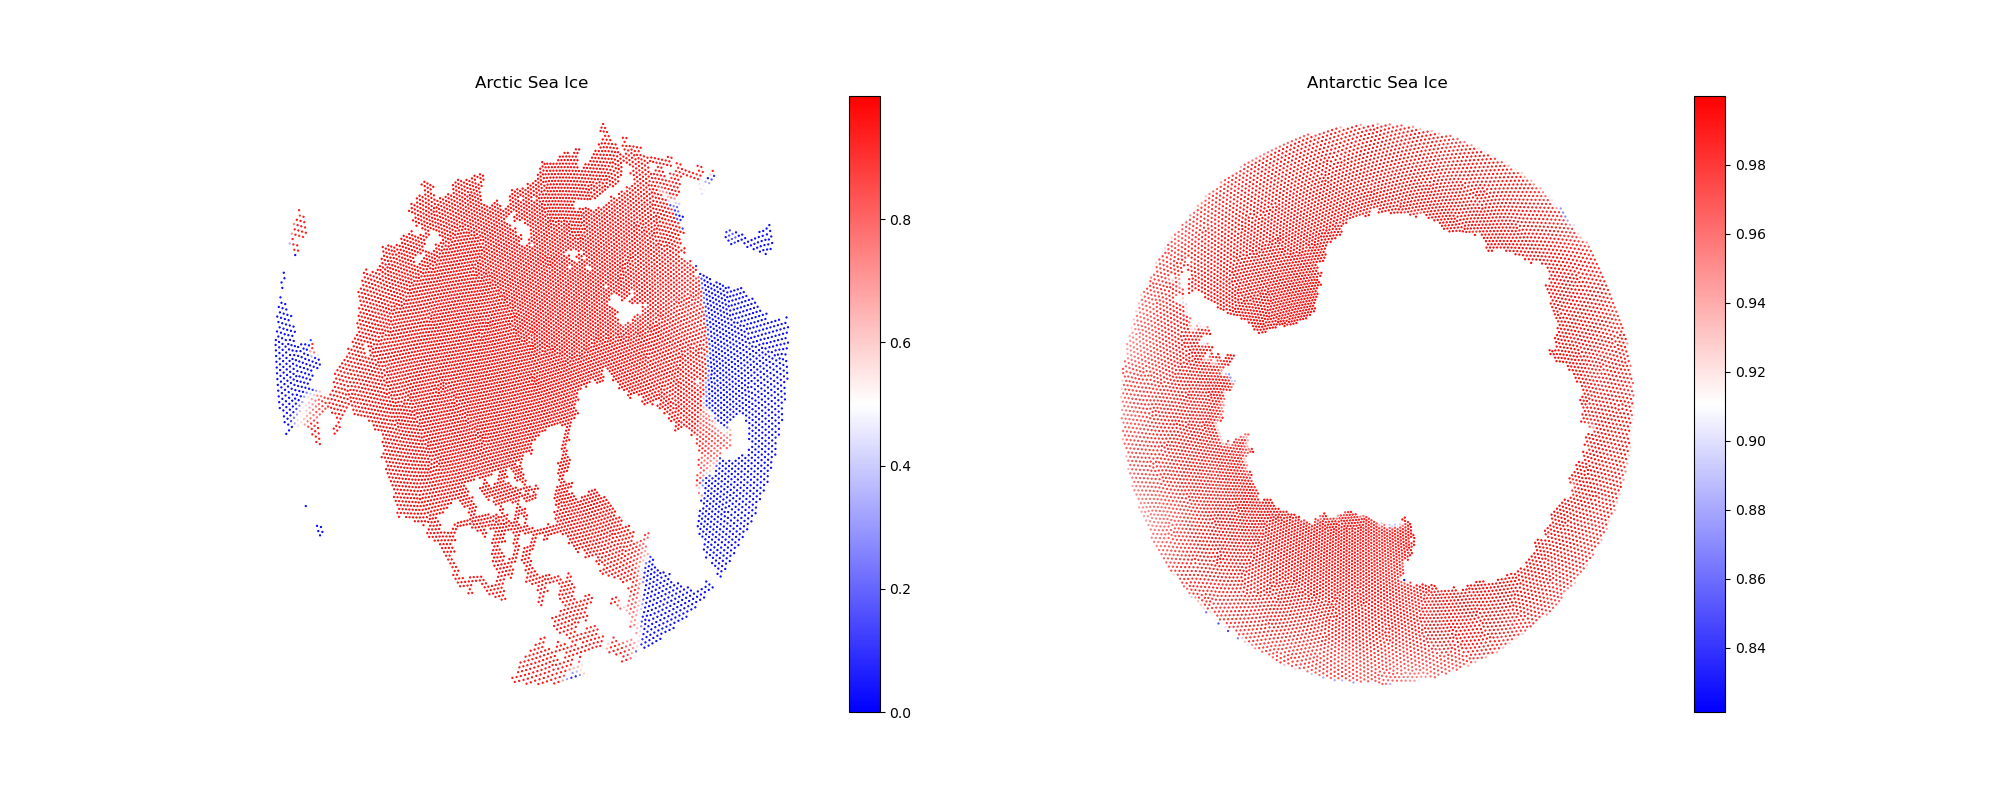
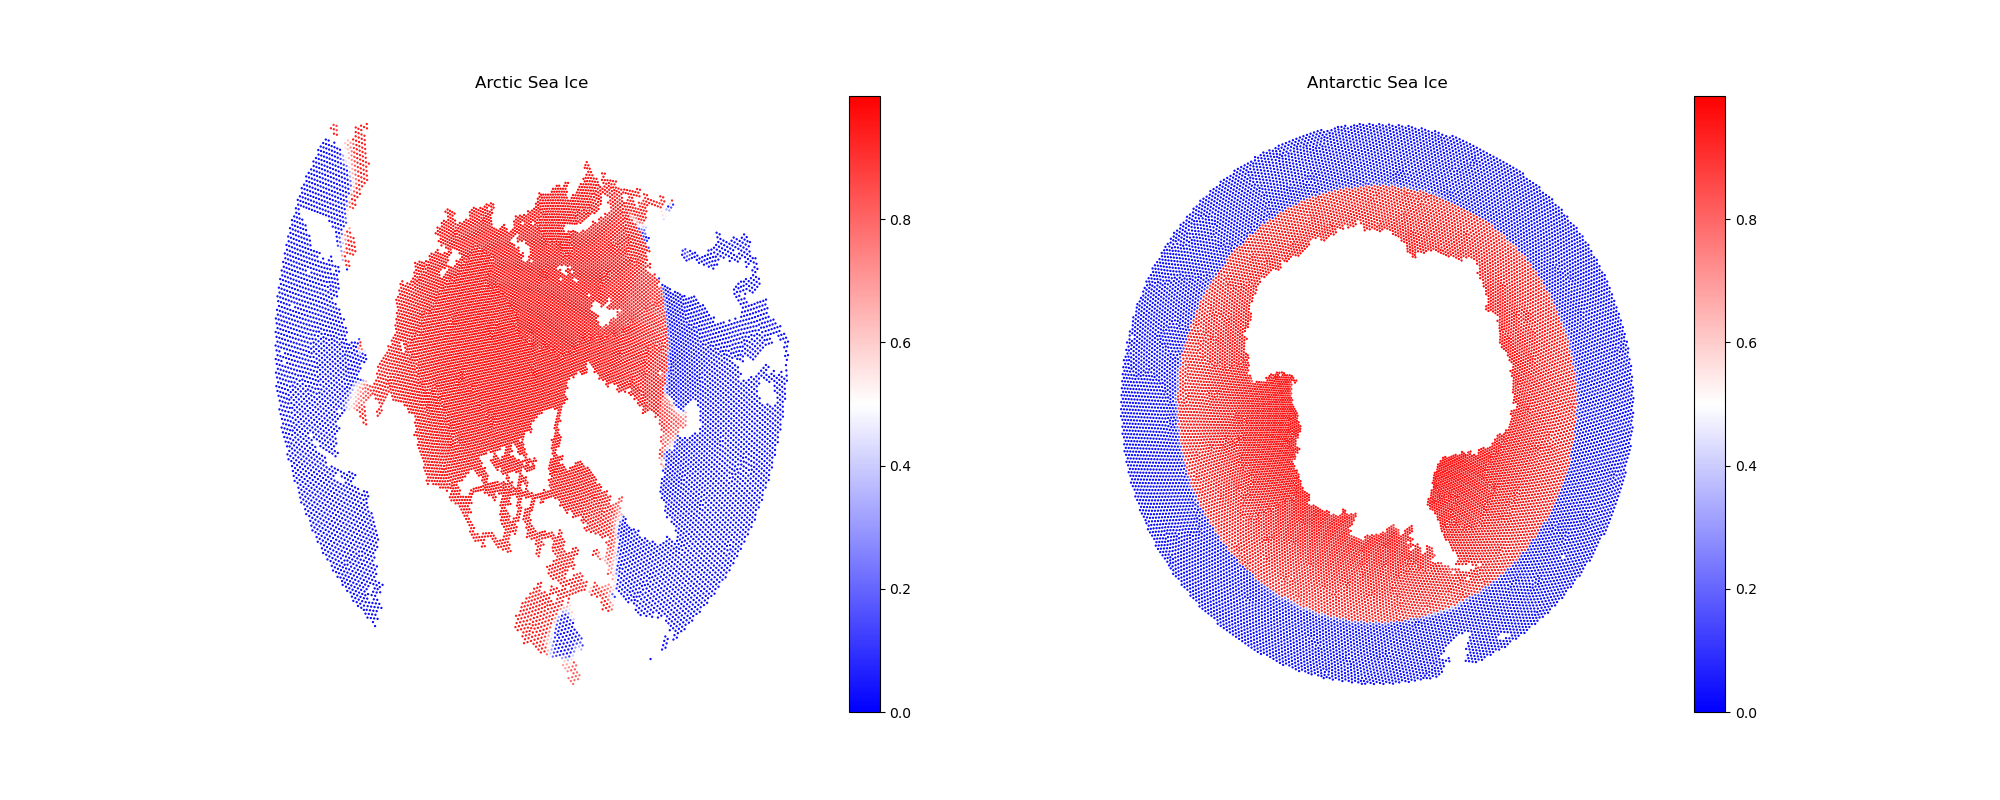
Made functions in the practice doc

diff --git a/practice-plotting/e3sm-data-practice-visualization.py b/practice-plotting/e3sm-data-practice-visualization.py
@@ -15,14 +15,16 @@ import os
 import math
 import numpy as np
 import xarray
-import matplotlib as mpl
+import matplotlib.path as mpath
 import matplotlib.pyplot as plt
 
-import matplotlib as mpl
-import matplotlib.pyplot as plt
 import cartopy.crs as ccrs
-import cartopy.mpl.ticker as cticker
 import cartopy.feature as cfeature
+
+# Constants
+MAXLONGITUDE = 180
+MINLONGITUDE = -180
+NORTHPOLE = 90
 
 # Change these for different runs
 runDir = os.path.dirname(os.path.abspath(__file__))     # Gets the current directory path
@@ -30,54 +32,47 @@ meshFileName = "\data\seaice.EC30to60E2r2.210210.nc"                            
 outputFileName = "\data\Breanna_D_test_1.mpassi.hist.am.timeSeriesStatsDaily.0001-01-01.nc"  # .nc file for the data to plot
 varToPlot = 'timeDaily_avg_iceAreaCell' # The variable that you want to plot
 
+def loadMesh(runDir, meshFileName):
+    """ Load the mesh from an .nc file. The mesh must have the same resolution as the output file. """
+    print('read: ', runDir, meshFileName)
+    mesh = xarray.open_dataset(runDir + meshFileName)
+    nCells = mesh.sizes['nCells']
+    latCell = mesh.variables['latCell'] # in radians
+    lonCell = mesh.variables['lonCell']
+    xCell = mesh.variables['xCell'] # in meters
+    yCell = mesh.variables['yCell']
+    return nCells, latCell, lonCell, xCell, yCell
+
+def loadData(runDir, outputFileName):
+    """ Load the data from an .nc output file. Returns a 1D array of the variable you want to plot. """
+    print('read: ', runDir, outputFileName)
+    output = xarray.open_dataset(runDir + outputFileName)
+    var = output.variables[varToPlot]
+    var1D = var[0,:] # reduce the variable to 1D so we can use these indices
+    return var1D
+
+def mapHemisphere(latCell, lat_limit, hemisphere, title, hemisphereMap):
+    """ Map one hemisphere onto a matplotlib figure. 
+    Ensure that you include the minus sign if mapping southern hemisphere. """
+    if hemisphere == "n":
+        indices = np.where(latCell > math.radians(lat_limit))
+    elif hemisphere == "s":
+        indices = np.where(latCell < math.radians(lat_limit))
+
+    sc = hemisphereMap.scatter(xCell[indices], yCell[indices], c=var1D[indices], cmap='bwr', s=0.4)
+    hemisphereMap.set_title(title)
+    hemisphereMap.axis('off')
+    plt.colorbar(sc, ax=hemisphereMap)
+
 # Create a figure with two subplots
 fig, axs = plt.subplots(1, 2, figsize=(20, 8))
 leftMap = axs[0]
 rightMap = axs[1]
+lat_limit = 50
 
-print('read: ', runDir, meshFileName)
-mesh = xarray.open_dataset(runDir + meshFileName)
-nCells = mesh.sizes['nCells']
-latCell = mesh.variables['latCell'] # in radians
-lonCell = mesh.variables['lonCell']
-xCell = mesh.variables['xCell'] # in meters
-yCell = mesh.variables['yCell']
-
-print('read: ', runDir, outputFileName)
-output = xarray.open_dataset(runDir + outputFileName)
-
-var = output.variables[varToPlot]
-
-# reduce the variable to 1D so we can use these indices
-var1D = var[0,:]
-
-#######################
-# Northern Hemisphere #
-#######################
-
-NorthernHemisphereIndices = np.where(latCell > math.radians(60))
-
-# Plot Arctic data in the first subplot
-sc = leftMap.scatter(xCell[NorthernHemisphereIndices], yCell[NorthernHemisphereIndices], c=var1D[NorthernHemisphereIndices], cmap='bwr', s=0.4)
-leftMap.set_title('Arctic Sea Ice')
-leftMap.axis('off')
-plt.colorbar(sc, ax=leftMap)
-
-#######################
-# Southern Hemisphere #
-#######################
-
-SouthernHemisphereIndices = np.where(latCell < math.radians(-60))
-
-# Plot Antarctic data in the second subplot
-sc = rightMap.scatter(yCell[SouthernHemisphereIndices], xCell[SouthernHemisphereIndices], c=var1D[SouthernHemisphereIndices], cmap='bwr', s=0.4)
-rightMap.set_title('Antarctic Sea Ice')
-plt.colorbar(sc, ax=rightMap)
-
-plt.axis('off')
-
-###############
-# Save figure #
-###############
+nCells, latCell, lonCell, xCell, yCell = loadMesh(runDir, meshFileName)
+var1D = loadData(runDir, outputFileName)
+mapHemisphere(latCell, lat_limit, "n", "Arctic Sea Ice", leftMap)      # Map northern hemisphere
+mapHemisphere(latCell, -lat_limit, "s", "Antarctic Sea Ice", rightMap) # Map southern hemisphere
 
 plt.savefig('seaice_Output.png')
